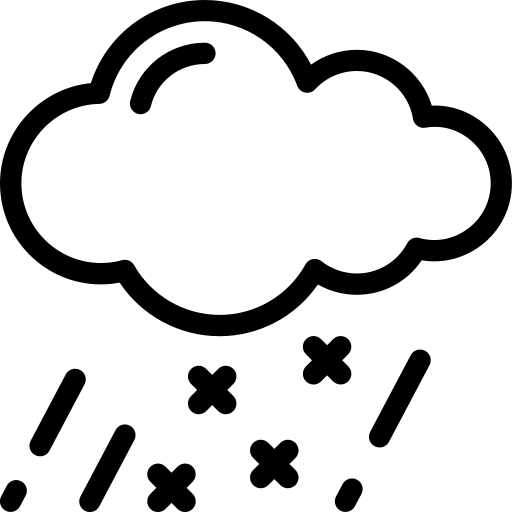
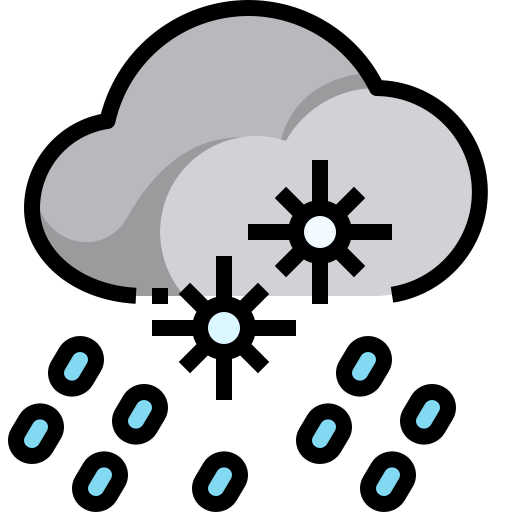
update

diff --git a/src/ForecastOverview.jsx b/src/ForecastOverview.jsx
@@ -1,28 +1,117 @@
-const ForecastOverview = () => {
+import useIcon from "./useHooks/useIcon";
 
-    const BoxFilter = ({children}) => {
+const ForecastOverview = ({ time, data }) => {
+  const timeToArray = time.split(" ");
+  const SecMinHourNow = timeToArray[1];
+  const hour = SecMinHourNow.split(":")[0];
+  const yearMonthDate = timeToArray[0];
+
+  const month = {
+    1: "Jan",
+    2: "Feb",
+    3: "Mar",
+    4: "Apr",
+    5: "May",
+    6: "Jun",
+    7: "Jul",
+    8: "Aug",
+    9: "Sep",
+    10: "Oct",
+    11: "Nov",
+    12: "Des",
+  };
+
+  //   Ambil Nama Hari(beserta 3 huruf kedepan)
+  const tahun = yearMonthDate.split("-")[0];
+  const bulan = yearMonthDate.split("-")[1];
+  const tanggal = yearMonthDate.split("-")[2];
+  const tanggalObj = new Date(tahun, bulan - 1, tanggal);
+  const namaHari = tanggalObj
+    .toLocaleDateString("en-EN", { weekday: "long" })
+    .substring(0, 3);
+
+  function getDate(whichDayLater) {
+    const currentDate = new Date(tahun, bulan - 1, tanggal);
+    currentDate.setDate(currentDate.getDate() + whichDayLater);
+
+    const day = currentDate.toLocaleDateString("en-US", { day: "numeric" });
+    const month = currentDate.toLocaleDateString("en-US", { month: "short" });
+    const weekday = currentDate.toLocaleDateString("en-US", {
+      weekday: "short",
+    });
+
+    return `${day} ${month} ${weekday}`;
+  }
+
+  const day1 = getDate(1);
+  const day2 = getDate(2);
+  const day3 = getDate(3);
+  const day4 = getDate(4);
+  const day5 = getDate(5);
+
+  const BoxFilter = ({ children, active = false }) => {
+    return (
+      <div
+        className={`${
+          active ? "bg-white text-black" : "bg-[#1F293B]"
+        } rounded-sm cursor-pointer ml-5 mb-5`}
+      >
+        <p className="text-center px-4 py-1">{children}</p>
+      </div>
+    );
+  };
+
+  const Box = () => {
+    return (
+      data &&
+      data.map((d) => {
+        const weather = d.weather[0];
+        // console.log(weather.main);
+        const celcius = d.main.temp;
+        console.log(weather.description)
+
+        const waktu = d.dt_txt;
+        const tahunBulanTanggal = waktu.split(" ")[0];
+        const jam = waktu.split(" ")[1];
+        const tahun = tahunBulanTanggal.split("-")[0];
+        const bulan = month[tahunBulanTanggal.split("-")[1]];
+        const tanggal = tahunBulanTanggal.split("-")[2];
         return (
-            <div className="bg-[#1F293B] rounded-sm cursor-pointer">
-                <p className="text-center px-4 py-1">{children}</p>
+          <div className="bg-[#1F293B] h-[80px] w-[250px] rounded-md flex">
+            <div className="ml-4 mt-2 mr-7">
+              <span className="text-sm opacity-50">{`${tanggal} ${bulan} ${tahun}`}</span>{" "}
+              <br />
+              <span>{jam}</span>
             </div>
-        )
-    }
-
-    const Box = () => {
-        return (
-            <div className="bg-[#1F293B] h-[50px] w-[200px]">
-
+            <img
+              src={useIcon(weather.main, jam.split(":")[0])}
+              alt=""
+              className="w-[45px] h-[45px] mt-4"
+            />
+            <div className="ml-5 mt-3">
+              <span>{celcius}°C</span>
+              <br />
+              <span className="opacity-70 text-sm">{weather.main}</span>
             </div>
-        )
-    }
+          </div>
+        );
+      })
+    );
+  };
+  console.log(data);
 
   return (
     <>
       <div className="flex">
-        <BoxFilter>All Day</BoxFilter>
+        <BoxFilter active={false}>All Day</BoxFilter>
+        <BoxFilter>{day1}</BoxFilter>
+        <BoxFilter>{day2}</BoxFilter>
+        <BoxFilter>{day3}</BoxFilter>
+        <BoxFilter>{day4}</BoxFilter>
+        <BoxFilter>{day5}</BoxFilter>
       </div>
-      <div className="grid">
-
+      <div className="grid lg:grid-cols-4 gap-4">
+        <Box></Box>
       </div>
     </>
   );

diff --git a/src/Header.jsx b/src/Header.jsx
@@ -3,7 +3,7 @@ const Header = ({ location }) => {
     return (
       <div className="flex">
         <svg
-          className="w-7 h-7 lg:w-9 lg:h-9 lg:ml-1 translate-y-1"
+          className="w-7 h-7 lg:w-9 lg:h-9 lg:ml-1 translate-y-1 -translate-x-1"
           viewBox="0 0 24 24"
           fill="none"
           xmlns="http://www.w3.org/2000/svg"
@@ -44,46 +44,55 @@ const Header = ({ location }) => {
   };
 
   const SearchBar = () => {
+    const onSubmit = (e) => {
+      e.preventDefault();
+    }
+
     return (
       <section className="bg-[#1F293B] h-10 ml-5 rounded-lg flex-[1]">
-        <input
-          type="text"
-          className="bg-[#1F293B] h-10 w-full focus:outline-none pl-12 text-sm rounded-lg"
-          placeholder="Search City..."
-        />
-        <svg
-          width="64px"
-          height="64px"
-          viewBox="0 0 24 24"
-          fill="none"
-          xmlns="http://www.w3.org/2000/svg"
-          stroke="#ffffff"
-          className="w-6 h-6 absolute -translate-y-8 translate-x-3"
-        >
-          <g id="SVGRepo_bgCarrier" strokeWidth="0"></g>
-          <g
-            id="SVGRepo_tracerCarrier"
-            strokeLinecap="round"
-            strokeLinejoin="round"
-          ></g>
-          <g id="SVGRepo_iconCarrier">
-            {" "}
-            <path
-              d="M15.7955 15.8111L21 21M18 10.5C18 14.6421 14.6421 18 10.5 18C6.35786 18 3 14.6421 3 10.5C3 6.35786 6.35786 3 10.5 3C14.6421 3 18 6.35786 18 10.5Z"
-              stroke="#e8e8e8"
-              strokeWidth="2"
-              strokeLinecap="round"
-              strokeLinejoin="round"
-            ></path>{" "}
-          </g>
-        </svg>
+        <form action="/" method="POST" className="flex" onSubmit={onSubmit}>
+          <button type="submit" className="bg-[#1F293B] h-10 w-14 rounded-lg">
+            <svg
+              width="64px"
+              height="64px"
+              viewBox="0 0 24 24"
+              fill="none"
+              xmlns="http://www.w3.org/2000/svg"
+              stroke="#ffffff"
+              className="w-6 h-6 absolute -translate-y-3 translate-x-3"
+            >
+              <g id="SVGRepo_bgCarrier" strokeWidth="0"></g>
+              <g
+                id="SVGRepo_tracerCarrier"
+                strokeLinecap="round"
+                strokeLinejoin="round"
+              ></g>
+              <g id="SVGRepo_iconCarrier">
+                {" "}
+                <path
+                  d="M15.7955 15.8111L21 21M18 10.5C18 14.6421 14.6421 18 10.5 18C6.35786 18 3 14.6421 3 10.5C3 6.35786 6.35786 3 10.5 3C14.6421 3 18 6.35786 18 10.5Z"
+                  stroke="#e8e8e8"
+                  strokeWidth="2"
+                  strokeLinecap="round"
+                  strokeLinejoin="round"
+                ></path>{" "}
+              </g>
+            </svg>
+          </button>
+          <input
+            type="text"
+            className="bg-[#1F293B] h-10 w-full focus:outline-none text-sm rounded-lg"
+            placeholder="Search City..."
+            name="city"
+          />
+        </form>
       </section>
     );
   };
 
   const GithubShare = () => {
     return (
-      <a href="">
+      <a href="https://github.com/Cahyooo/Weather_App">
         <div className="h-10 bg-white w-[15vw] lg:w-[11vw] flex ml-5 rounded-md items-center">
           <svg
             viewBox="0 0 20 20"

diff --git a/src/WeatherInformation.service.js b/src/WeatherInformation.service.js
@@ -1,11 +1,21 @@
 import axios from "axios";
 
-const city = "London";
+//?
+//! KEY API,FILE TIDAK ADA JIKA DI PUSH KE GITHUB
+import key from './key/key.json'
+//?
+// const response = await axios.post("/", {
+//   city,
+// });
+// const data = await response.json();
+
+
+const city = "Jakarta";
 
 export const getGeo = (callback) => {
   axios
     .get(
-      `http://api.openweathermap.org/geo/1.0/direct?q=${city}&appid=d746c978bcd31d9b89b5be1a420a1a22`
+      `http://api.openweathermap.org/geo/1.0/direct?q=${city}&appid=${key.keyWeather2}`
     )
     .then((res) => {
       callback(res);
@@ -17,7 +27,7 @@ export const getGeo = (callback) => {
 export const getWeather = (callback) => {
   axios
     .get(
-      `http://api.weatherapi.com/v1/current.json?key=5d9bbbe38d40448ea23160911230310&q=${city}`
+      `http://api.weatherapi.com/v1/current.json?key=${key.keyWeather1}&q=${city}`
     )
     .then((res) => {
       const data = {
@@ -47,7 +57,7 @@ function fetchData(callback) {
 fetchData(() => {
   axios
     .get(
-      `https://api.openweathermap.org/data/2.5/forecast?lat=${lat}&lon=${lon}&appid=d746c978bcd31d9b89b5be1a420a1a22&units=metric`
+      `https://api.openweathermap.org/data/2.5/forecast?lat=${lat}&lon=${lon}&appid=${key.keyWeather2}&units=metric`
     )
     .then((res) => {
       callback(res);

diff --git a/src/TodayOverview.jsx b/src/TodayOverview.jsx
@@ -1,15 +1,20 @@
-import foto from "./img/fog.png";
+import useIcon from "./useHooks/useIcon";
 
 const TodayOverview = ({ weatherInfo, time }) => {
   const nowInfo = weatherInfo[0];
   const weather = nowInfo.weather[0];
-  console.log(weather);
-  console.log(nowInfo);
+  const jam = time.split(" ")[1].split(":")[0];
+  //   console.log(weather);
+  //   console.log(nowInfo);
 
   const WeatherInformation = () => {
     return (
       <div className="bg-[#1F293B] h-[350px] rounded-lg border text-2xl w-[230px]">
-        <img src={foto} alt="" className="h-[100px] ml-12 mt-7 mb-5" />
+        <img
+          src={useIcon(weather.main, jam)}
+          alt=""
+          className="h-[100px] ml-12 mt-7 mb-5"
+        />
         <div className="pl-8 mb-5">
           <span className="font-semibold">{nowInfo.main.temp}°C</span> <br />
           <span className="text-[18px] opacity-80 -translate-y-10">
@@ -65,7 +70,6 @@ const TodayOverview = ({ weatherInfo, time }) => {
   };
 
   const OtherInformation = () => {
-
     const Box = () => {
       return (
         <div className="bg-[#1F293B] w-[220px] h-[165px] rounded-lg"></div>

diff --git a/src/App.jsx b/src/App.jsx
@@ -22,7 +22,7 @@ function App() {
     });
   }, []);
   // console.log(weatherInfo);
-  console.log(location);
+  // console.log(location);
   // console.log(weatherInfoForChild);
   // console.log(dataHourly);
 
@@ -33,12 +33,12 @@ function App() {
           <p>Getting API Data...</p>
         </div>
       ) : (
-        <article className="bg-[#0F172A] w-auto h-[93vh] rounded-xl mx-10 my-5 text-white px-4 lg:px-7">
+        <article className="bg-[#0F172A] w-auto pb-10 rounded-xl mx-10 my-5 text-white px-4 lg:px-7">
           <Header location={location} />
           <h1 className="mb-5 text-2xl">Today Overview</h1>
           <TodayOverview weatherInfo={dataHourly} time={location.localtime} />
           <h5 className="my-5 text-2xl text-bold ">Next 5 Days</h5>
-          <ForecastOverview />
+          <ForecastOverview time={location.localtime} data={dataHourly} />
         </article>
       )}
     </main>

diff --git a/src/useHooks/useIcon.jsx b/src/useHooks/useIcon.jsx
@@ -1,0 +1,32 @@
+import fog from "../img/fog.png";
+import Rain from "../img/rain.png";
+import Rain_night from "../img/rainy_night.png";
+import Clouds from "../img/cloudy_sunny.png";
+import Clouds_night from "../img/cloudy_night.png";
+import Sunny from "../img/sunny.png";
+import Night from "../img/clear_night.png";
+
+const useIcon = (type, time) => {
+  console.log(time);
+  if (type === "Clouds") {
+    if (time >= 19 || time <= 5) {
+      return Clouds_night;
+    } else {
+      return Clouds;
+    }
+  } else if (type === "Rain") {
+    if (time >= 19 || time <= 5) {
+      return Rain_night;
+    } else {
+      return Rain;
+    }
+  } else if (type === "Sunny" || type === "Clear") {
+    if (time >= 19 || time <= 5) {
+      return Night;
+    } else {
+      return Sunny;
+    }
+  }
+};
+
+export default useIcon;

diff --git a/src/index.css b/src/index.css
@@ -8,14 +8,13 @@ body,html, #root{
 }
 
 html {
-    height: 100%;
+    margin-bottom: 25px;
     /* overflow: hidden; */
     overflow-x: hidden;
 }
 
 body {
-    height: 100%;
-    /* background-color: rgb(31,40,58); */
+    background-color: rgb(31,40,58);
 }
 
 #root {
